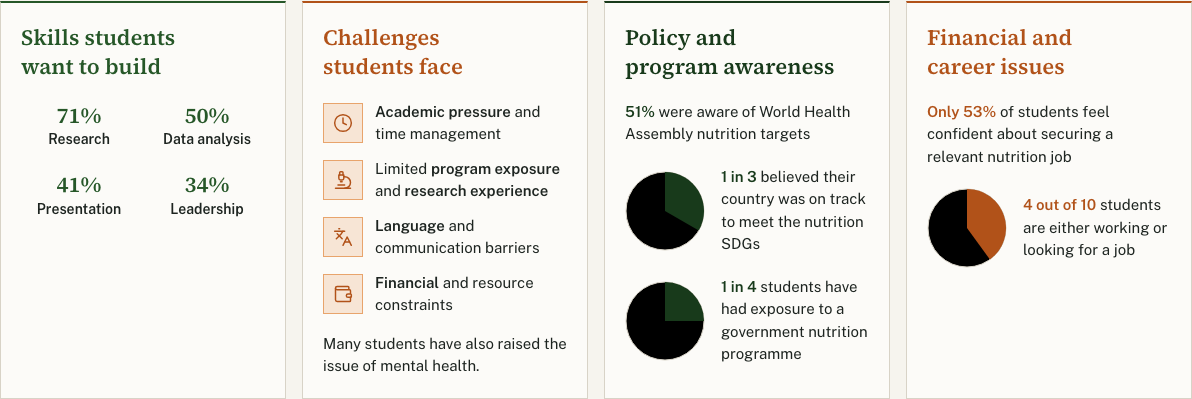
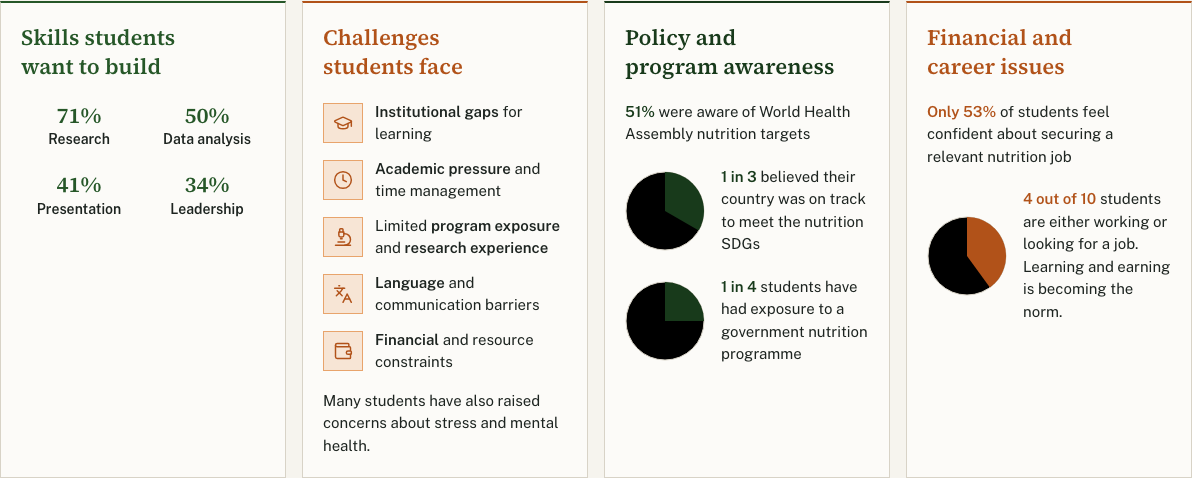
[edit] refine gen-n and complete survey copy

diff --git a/src/components/InitiativePage.js b/src/components/InitiativePage.js
@@ -1,10 +1,13 @@
 import React, { useEffect } from 'react';
 import { Link, useParams } from 'react-router-dom';
-import { ArrowLeft, ArrowUpRight } from 'lucide-react';
+import { ArrowLeft } from 'lucide-react';
 import { initiatives } from '../data/initiatives';
 import ComingSoon, { SITE_TITLE } from './ComingSoon';
+import { resources } from '../data/resources';
+import { DocumentList } from './ContentPage';
+import PhotoCarousel from './PhotoCarousel';
 import NotFound from './NotFound';
-import { SectionTitle, SubTitle, textLink } from './ui';
+import { SectionTitle, textLink } from './ui';
 
 const backLink = `inline-flex min-h-11 items-center gap-2 font-semibold text-green ${textLink}`;
 
@@ -24,15 +27,17 @@ export function InitiativePage() {
   if (!initiative) return <NotFound />;
   if (!initiative.page) return <ComingSoon title={initiative.title} />;
 
-  const { intro, photos, goals, steps, link } = initiative.page;
+  const { subtitle, intro, photos, goals, steps, resourceId } = initiative.page;
+  const resource = resources.find((item) => item.id === resourceId);
   return (
-    <article>
+    <article className="text-ui">
       <Link to="/#initiatives" className={backLink}>
         <ArrowLeft size={18} aria-hidden="true" />
         Projects and Initiatives
       </Link>
-      <SectionTitle as="h1" className="mt-4">{initiative.title}</SectionTitle>
-      <p className="mt-4 max-w-[60ch] text-sub text-ink">{intro}</p>
+      <SectionTitle as="h1" size="sidebar" className="mt-4 lg:text-title-sm">{initiative.title}</SectionTitle>
+      <p className="mt-2 max-w-[65ch] font-semibold text-green">{subtitle}</p>
+      <p className="mt-3 max-w-[65ch] text-ink">{intro}</p>
 
       <div className="mt-10 grid gap-4 sm:grid-cols-2">
         {photos.map(({ src, caption }) => (
@@ -49,10 +54,10 @@ export function InitiativePage() {
         ))}
       </div>
 
-      <div className="mt-14 grid gap-12 lg:grid-cols-12 lg:gap-16">
+      <div className="mt-10 grid gap-8 lg:grid-cols-12 lg:gap-12">
         <section className="lg:col-span-5">
-          <SubTitle as="h2">What students learn</SubTitle>
-          <ul className="nf-stagger mt-4 space-y-3 text-body">
+          <h2 className="text-lg">What students learn</h2>
+          <ul className="mt-3 space-y-2">
             {goals.map((goal) => (
               <li key={goal} className="flex gap-3">
                 <span aria-hidden="true" className="mt-[0.6em] h-1.5 w-1.5 shrink-0 bg-accent" />
@@ -62,14 +67,14 @@ export function InitiativePage() {
           </ul>
         </section>
         <section className="lg:col-span-7">
-          <SubTitle as="h2">How a Data Camp runs</SubTitle>
-          <ol className="nf-stagger mt-4 border-t border-line">
+          <h2 className="text-lg">How a Data Camp runs</h2>
+          <ol className="mt-3 border-t border-line">
             {steps.map(({ title, text }, index) => (
-              <li key={title} className="grid grid-cols-[2.5rem_1fr] gap-x-4 border-b border-line py-5">
-                <span className="font-serif text-title-sm font-semibold tabular-nums text-green">{index + 1}</span>
+              <li key={title} className="grid grid-cols-[1.5rem_1fr] gap-x-3 border-b border-line py-3">
+                <span className="font-serif text-lg font-semibold tabular-nums text-green">{index + 1}</span>
                 <div>
                   <p className="font-semibold text-ink">{title}</p>
-                  <p className="mt-1 text-body text-muted">{text}</p>
+                  <p className="mt-1 text-muted">{text}</p>
                 </div>
               </li>
             ))}
@@ -77,10 +82,17 @@ export function InitiativePage() {
         </section>
       </div>
 
-      <Link to={link.href} className={`mt-12 ${backLink}`}>
-        {link.label}
-        <ArrowUpRight size={18} aria-hidden="true" />
-      </Link>
+      {resource && (
+        <>
+          <section className="mt-10 border-t border-line pt-6" aria-labelledby="data-camp-photos">
+            <h2 id="data-camp-photos" className="mb-4 text-lg">Data Camp photos</h2>
+            <div className="max-w-3xl">
+              <PhotoCarousel label="Data Camp photos" photos={resource.photos} />
+            </div>
+          </section>
+          <DocumentList documents={resource.documents} />
+        </>
+      )}
     </article>
   );
 }

diff --git a/src/components/ContentPage.js b/src/components/ContentPage.js
@@ -7,6 +7,38 @@ import { SectionTitle, SiteLink, SubTitle, groupTitleLink, textLink } from './ui
 
 const link = `inline-flex min-h-11 items-center gap-2 font-semibold text-green ${textLink}`;
 
+export function DocumentList({ documents }) {
+  return (
+    <section className="mt-16 border-t border-line pt-10" aria-label="Documents">
+      <SectionTitle as="h2" size="sidebar" className="lg:text-title-sm">Documents</SectionTitle>
+      <ul className="nf-stagger mt-6 grid gap-4 sm:grid-cols-2 lg:grid-cols-3">
+        {documents.map(({ title: name, description, file, kind, size }) => (
+          <li key={file}>
+            <a
+              href={file}
+              target="_blank"
+              rel="noopener noreferrer"
+              className="group flex h-full flex-col border border-line bg-surface p-5 transition-colors hover:border-green"
+            >
+              <span className={`text-base font-semibold text-ink lg:text-body ${groupTitleLink}`}>{name}</span>
+              <span className="mt-2 text-meta text-muted">{description}</span>
+              <span className="mt-auto flex items-center justify-between gap-3 pt-5 text-meta tabular-nums text-muted">
+                {kind}, {size}
+                {/* A browser shows a PDF in the tab and saves any other file. */}
+                {kind === 'PDF' ? (
+                  <ArrowUpRight size={20} aria-hidden="true" className="text-green" />
+                ) : (
+                  <Download size={20} aria-hidden="true" className="text-green" />
+                )}
+              </span>
+            </a>
+          </li>
+        ))}
+      </ul>
+    </section>
+  );
+}
+
 /**
  * The page of one resource folder or one event: images in a carousel, a summary beside it, then the documents as cards.
  * `links` end the page. An address that starts with "/" is a site page, any other is an outside link.
@@ -63,35 +95,7 @@ function ContentPage({
         </div>
       </div>
 
-      {documents.length > 0 && (
-        <section className="mt-16 border-t border-line pt-10" aria-label="Documents">
-          <SectionTitle as="h2" size="sidebar" className="lg:text-title-sm">Documents</SectionTitle>
-          <ul className="nf-stagger mt-6 grid gap-4 sm:grid-cols-2 lg:grid-cols-3">
-            {documents.map(({ title: name, description, file, kind, size }) => (
-              <li key={file}>
-                <a
-                  href={file}
-                  target="_blank"
-                  rel="noopener noreferrer"
-                  className="group flex h-full flex-col border border-line bg-surface p-5 transition-colors hover:border-green"
-                >
-                  <span className={`text-base font-semibold text-ink lg:text-body ${groupTitleLink}`}>{name}</span>
-                  <span className="mt-2 text-meta text-muted">{description}</span>
-                  <span className="mt-auto flex items-center justify-between gap-3 pt-5 text-meta tabular-nums text-muted">
-                    {kind}, {size}
-                    {/* A browser shows a PDF in the tab and saves any other file. */}
-                    {kind === 'PDF' ? (
-                      <ArrowUpRight size={20} aria-hidden="true" className="text-green" />
-                    ) : (
-                      <Download size={20} aria-hidden="true" className="text-green" />
-                    )}
-                  </span>
-                </a>
-              </li>
-            ))}
-          </ul>
-        </section>
-      )}
+      {documents.length > 0 && <DocumentList documents={documents} />}
 
       {links.length > 0 && (
         <ul className="mt-10 flex flex-col gap-1">

diff --git a/src/components/Hero.js b/src/components/Hero.js
@@ -7,6 +7,7 @@ import { SectionTitle, container } from './ui';
 
 const PHOTO_INTERVAL_MS = 2000;
 const CLIP_INTERVAL_MS = 6000;
+const FADE_MS = 500;
 
 // The newest event comes first. A photo has a 1600px file and an 800px file for phones.
 // A photo with a `width` has a large file of that width instead of 1600px.
@@ -115,6 +116,7 @@ const control =
 
 function Slideshow() {
   const [current, setCurrent] = useState(0);
+  const lastAdvance = useRef(-Infinity);
   const [hovered, setHovered] = useState(false);
   // A visitor who asks for reduced motion starts with the slideshow stopped. Play still works for them.
   const [calm] = useState(prefersReducedMotion);
@@ -128,11 +130,17 @@ function Slideshow() {
   useEffect(() => {
     if (!autoplaying) return undefined;
     const delay = slides[current].clip ? CLIP_INTERVAL_MS : PHOTO_INTERVAL_MS;
-    const timer = setTimeout(() => setCurrent((index) => (index + 1) % slides.length), delay);
+    const timer = setTimeout(() => {
+      lastAdvance.current = performance.now();
+      setCurrent((index) => (index + 1) % slides.length);
+    }, delay);
     return () => clearTimeout(timer);
   }, [autoplaying, current]);
 
   const step = (offset) => {
+    const now = performance.now();
+    if (!calm && now - lastAdvance.current < FADE_MS) return;
+    lastAdvance.current = now;
     setCurrent((index) => (index + offset + slides.length) % slides.length);
     setStopped(true);
   };

diff --git a/src/data/pulseSurvey.js b/src/data/pulseSurvey.js
@@ -31,12 +31,13 @@ export const themes = [
     kind: 'list',
     // Words between ** ** show in bold.
     items: [
+      '**Institutional gaps** for learning',
       '**Academic pressure** and time management',
       'Limited **program exposure** and **research experience**',
       '**Language** and communication barriers',
       '**Financial** and resource constraints',
     ],
-    note: 'Many students have also raised the issue of mental health.',
+    note: 'Many students have also raised concerns about stress and mental health.',
   },
   {
     id: 'policy',
@@ -57,7 +58,7 @@ export const themes = [
     stats: [
       // 53% is the owner's figure. The survey sheets give 52% (197 of 376 confident or very confident).
       { id: 'job-confidence', value: 'Only 53%', share: 53, text:'of students feel confident about securing a relevant nutrition job' },
-      { id: 'job-status', value: '4 out of 10', share: [4, 10], text:'students are either working or looking for a job' },
+      { id: 'job-status', value: '4 out of 10', share: [4, 10], text:'students are either working or looking for a job. Learning and earning is becoming the norm.' },
     ],
   },
 ];

diff --git a/src/data/initiatives.js b/src/data/initiatives.js
@@ -8,6 +8,7 @@ export const initiatives = [
     width: 141,
     height: 128,
     page: {
+      subtitle: 'Nutrition Generation Research and Data, Innovation, and Evaluation Skills',
       intro:
         'Gen-N puts nutrition students to work on real national data. The first program is the Data Camp, a one-day session where students check how far Nepal is from its nutrition targets.',
       photos: [
@@ -27,10 +28,7 @@ export const initiatives = [
         { title: 'Learn the method', text: 'A short session on outcomes, indicators, SMART targets and the results-based management framework.' },
         { title: 'Recommend', text: 'The teams present. The group discusses what is required to reach the targets that are still pending.' },
       ],
-      link: {
-        href: '/resources/data-camp',
-        label: 'Data Camp agenda, photos and slides',
-      },
+      resourceId: 'data-camp',
     },
   },
   { id: 'advocacy', title: 'Advocacy and Campaigns', img: '/Initiatives/thumbs/Advocacy.png', width: 163, height: 128 },

diff --git a/src/components/SurveyDashboard.js b/src/components/SurveyDashboard.js
@@ -1,5 +1,5 @@
 import React from 'react';
-import { Clock, Languages, Microscope, Wallet } from 'lucide-react';
+import { Clock, GraduationCap, Languages, Microscope, Wallet } from 'lucide-react';
 import { ALL, countFor, respondentsFor, skills, themes } from '../data/pulseSurvey';
 import Pie from './Pie';
 import { Section, SectionTitle, SubTitle } from './ui';
@@ -45,7 +45,7 @@ const Marked = ({ text }) =>
   );
 
 // One icon for each challenge, in the order of `items` in the data file.
-const challengeIcons = [Clock, Microscope, Languages, Wallet];
+const challengeIcons = [GraduationCap, Clock, Microscope, Languages, Wallet];
 
 const ChallengeList = ({ items, note, hue }) => (
   <>

diff --git a/src/data/resources.js b/src/data/resources.js
@@ -50,7 +50,6 @@ export const resources = [
       'Learn how to analyse a target and come up with recommendations.',
     ],
     cover: photo('data-camp', 'cafodat1'),
-    driveHref: 'https://drive.google.com/drive/folders/1_PZuUUcI1jwHlIVtsgN01VcXAdH8B8PO?usp=drive_link',
     documents: [
       { title: 'Data Camp agenda', description: 'The sessions of the day, who leads each one and the materials.', file: '/resources/data-camp/docs/data-camp-agenda.pdf', kind: 'PDF', size: '0.1 MB' },
       { title: 'Data Camp presentation', description: 'The slides of the Data Camp.', file: '/resources/data-camp/docs/data-camp-presentation.pptx', kind: 'PPTX', size: '5.9 MB' },
